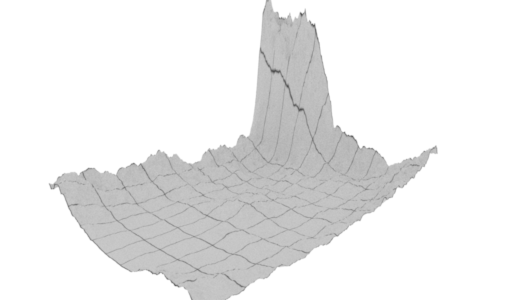
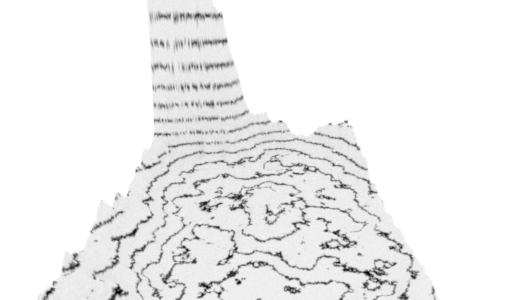
Add SecondRendu

diff --git a/SecondRendu.m b/SecondRendu.m
@@ -1,0 +1,12 @@
+function [ ] = SecondRendu(terrain ,iter, alpha, lambda)
+%UNTITLED4 Summary of this function goes here
+%   Detailed explanation goes here
+
+terrainFinal = GenererTerrain(terrain,iter,alpha,lambda);
+
+Exporter16(terrainFinal, 'niveaudegris.png');
+CourbeNiveau(terrainFinal, 'courbeniveau.png');
+RenderTerrain('niveaudegris.png','courbeniveau.png','out.png', [-1200 0 700], [400 0 100]);
+
+end
+

diff --git a/CourbeNiveau.m b/CourbeNiveau.m
@@ -1,4 +1,4 @@
-function [ texture ] = CourbeNiveau( terrain )
+function [ texture ] = CourbeNiveau( terrain, filename )
 %Genere une courbe d eniveau a partir des altitudes
 %   Detailed explanation goes here
 n = size(terrain);
@@ -24,6 +24,6 @@ texture = texture * 240;
     
     texture = uint8(texture);
     
-    imwrite(texture,'courbeNiveau.png');
+    imwrite(texture,filename);
 
 end
